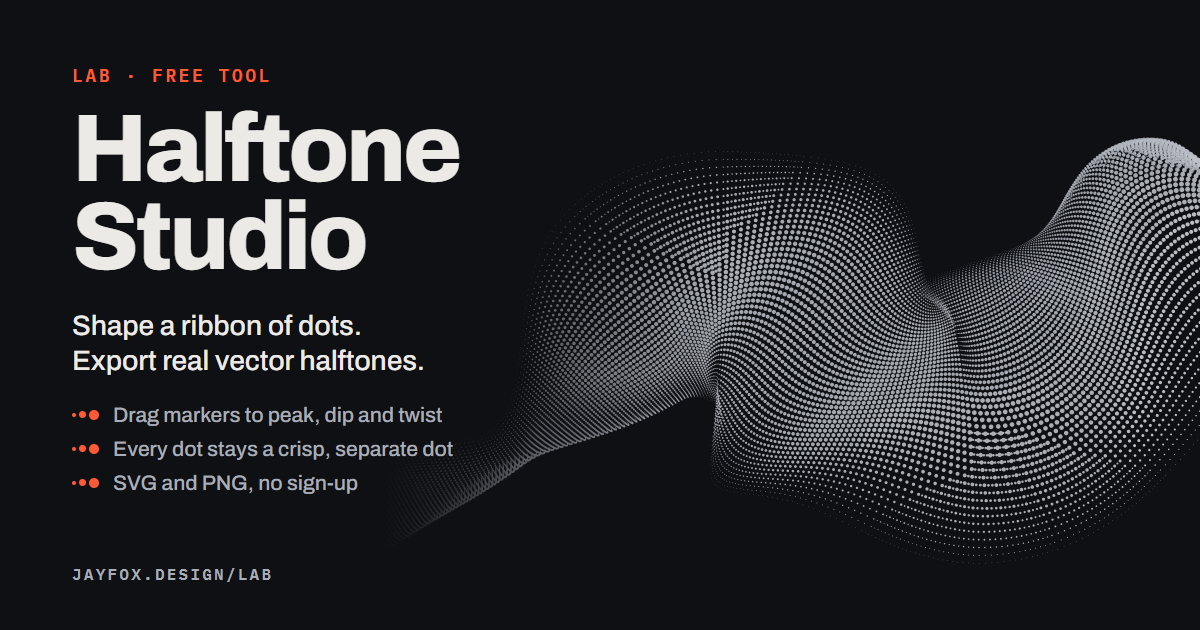
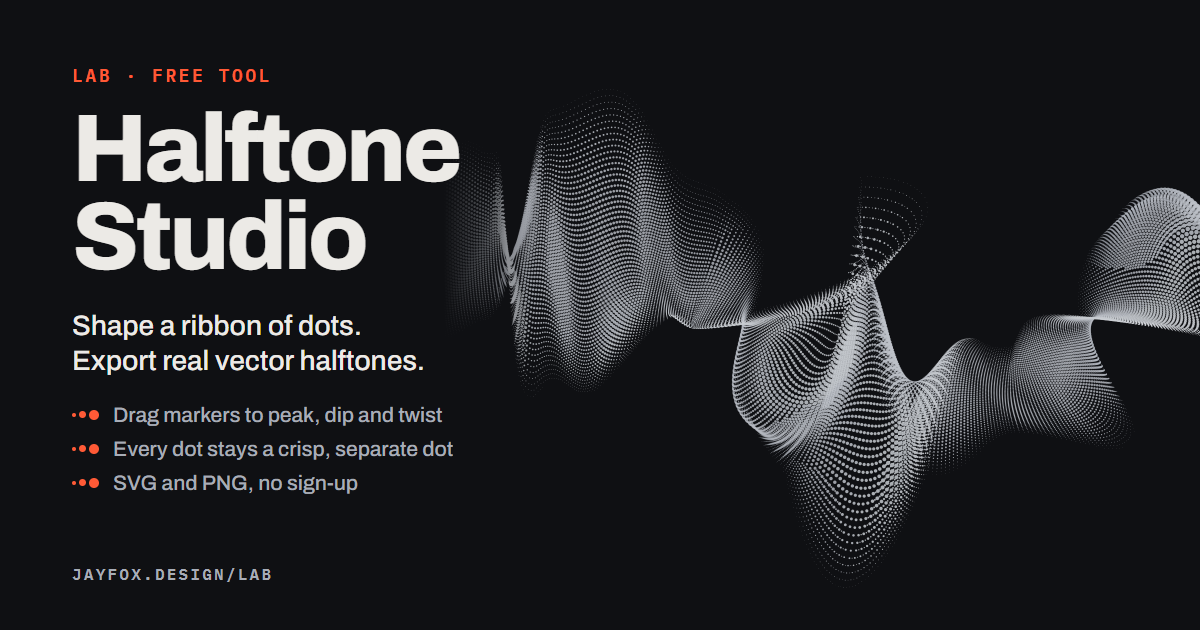
Share image uses Jay's twisty ribbon design as its art

Changed region(s): [[0.37, 0.181, 1.0, 0.8746]]

diff --git a/docs/share/card.html b/docs/share/card.html
@@ -30,8 +30,8 @@
         inset: 0;
         width: 1200px;
         height: 630px;
-        -webkit-mask-image: linear-gradient(90deg, transparent 32%, #000 60%);
-        mask-image: linear-gradient(90deg, transparent 32%, #000 60%);
+        -webkit-mask-image: linear-gradient(90deg, transparent 37%, #000 45%);
+        mask-image: linear-gradient(90deg, transparent 37%, #000 45%);
       }
       .text {
         position: absolute;
